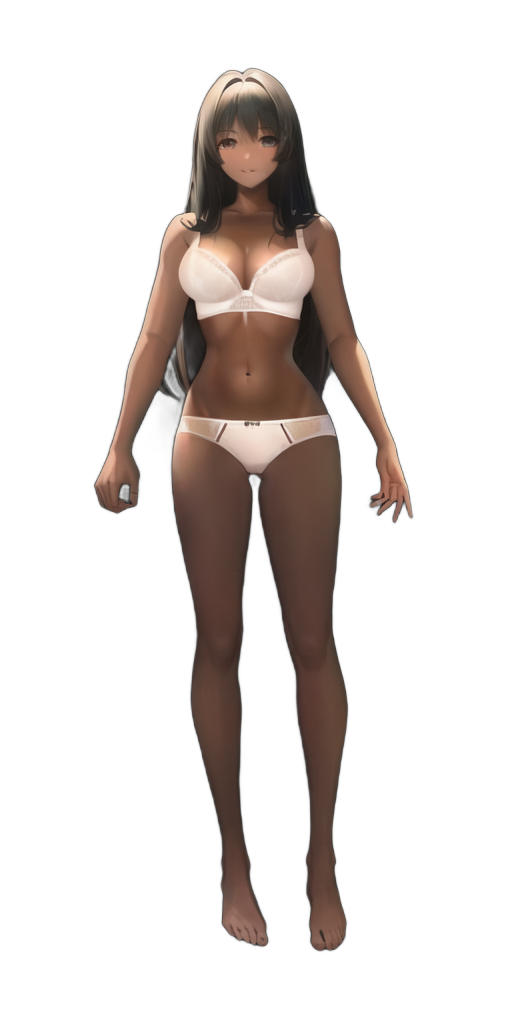
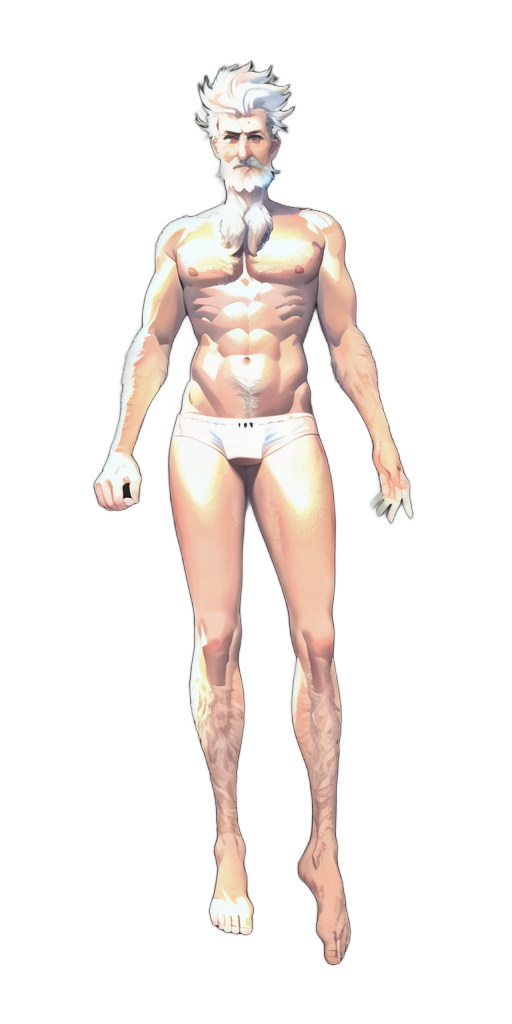
New assets round 2

Changed region(s): [[0.1875, 0.0625, 0.8125, 0.9375]]

diff --git a/src/pages/AnimeTab.tsx b/src/pages/AnimeTab.tsx
@@ -15,10 +15,9 @@ import Format from "../utils/format";
 
 export default function AnimeTab() {
   const [char, setChar] = React.useState<Record<string, string>>({
-    rank: "E",
     character: "Girl 2",
     body: "Tattered Rags",
-    head: "Flower Head 1",
+    head: "Flower Head",
     feet: "Bandaged Feet",
     hand: "Bandaged Arms",
   });
